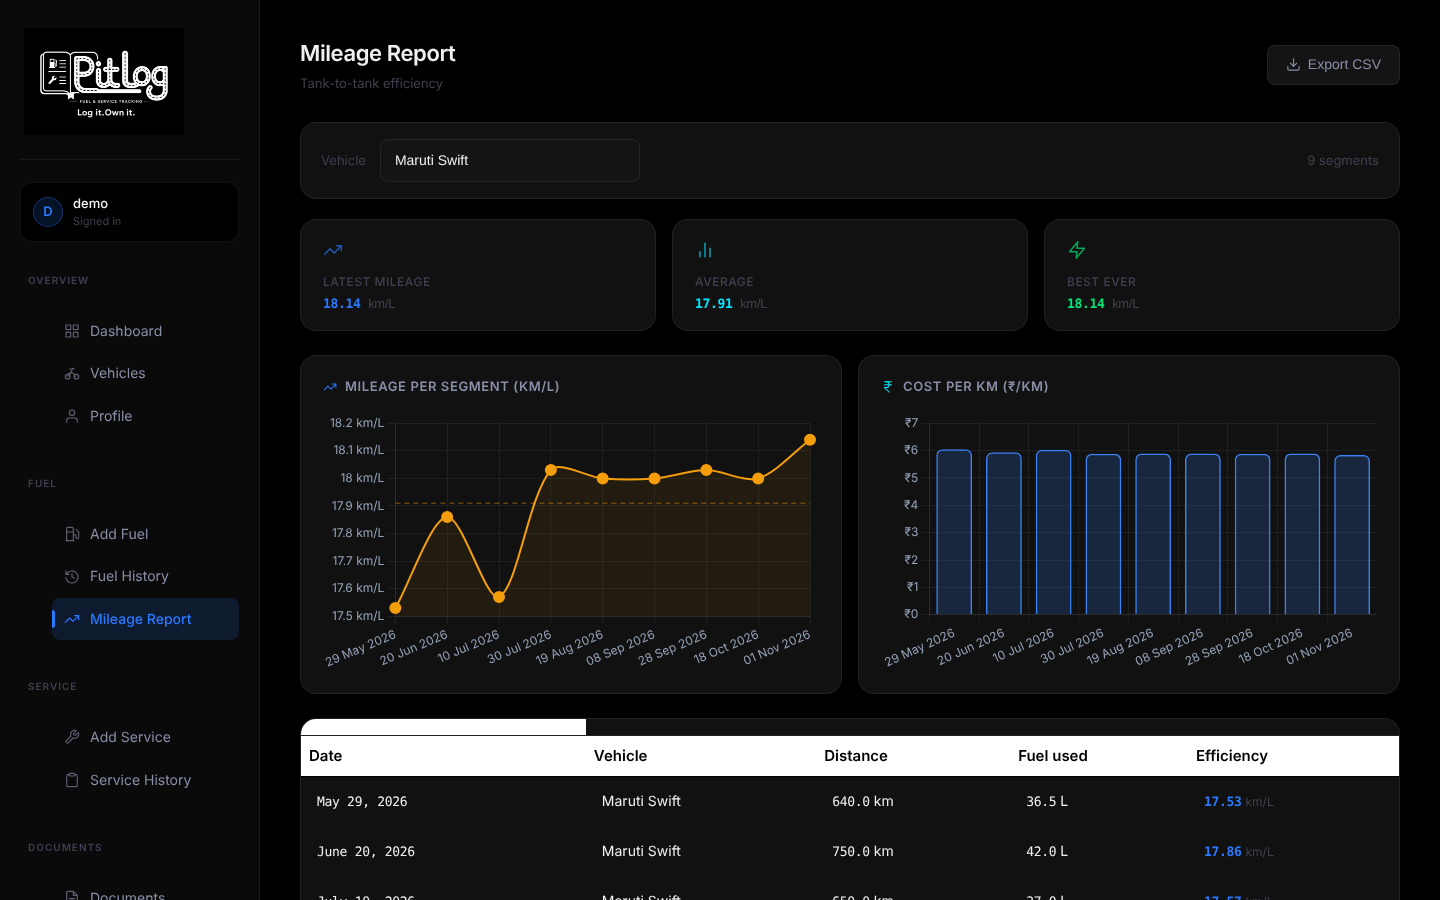
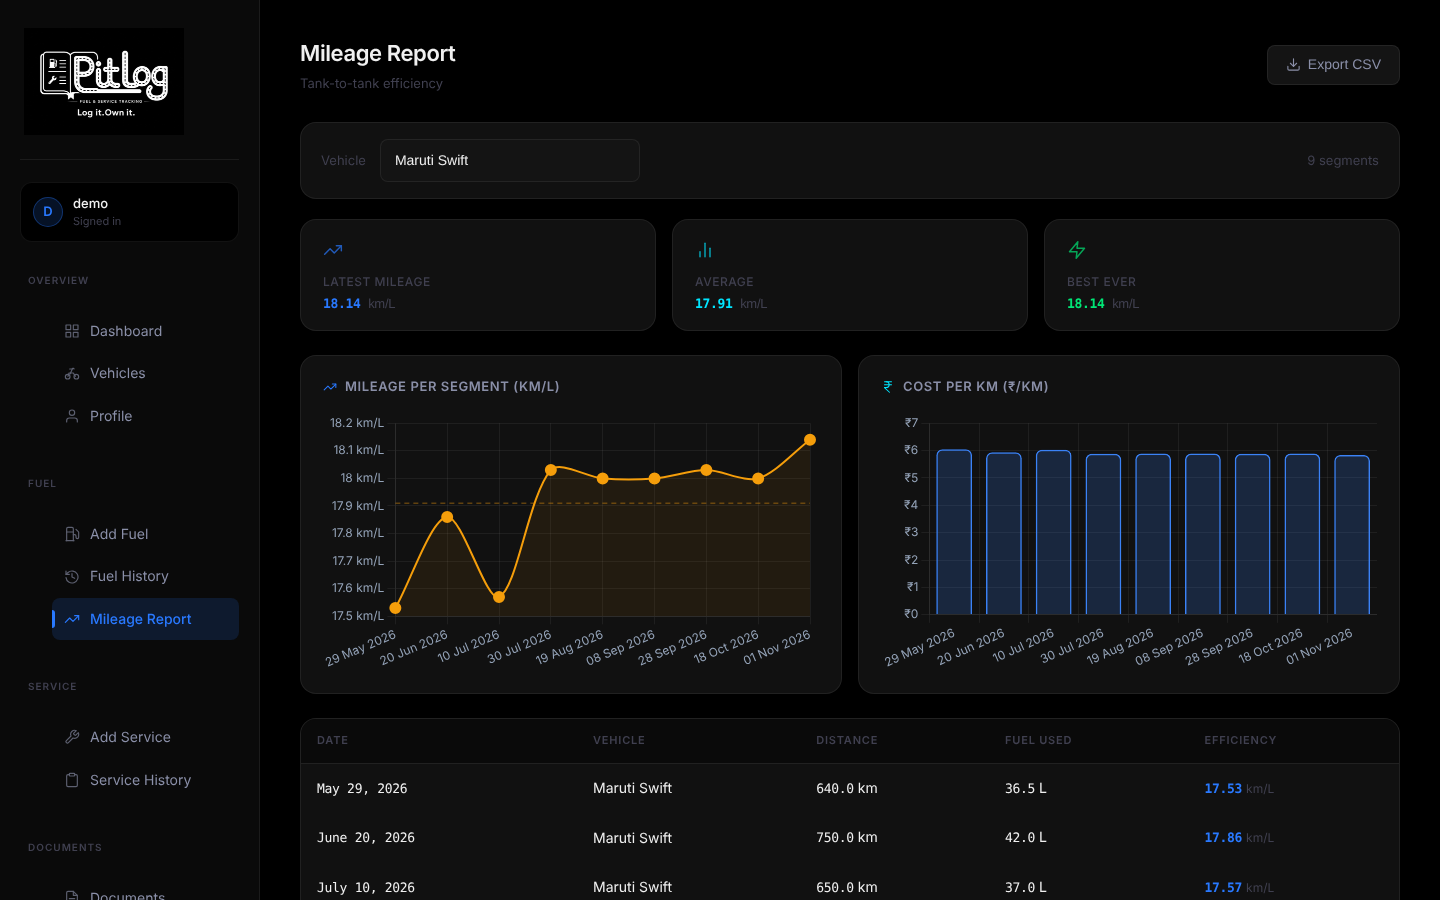
Add README screenshots, fix broken thead tags and demo odometer typo

Changed region(s): [[0.1875, 0.7778, 0.9688, 1.0], [0.7188, 0.9956, 0.75, 1.0], [0.7188, 0.9333, 0.75, 0.9644]]

diff --git a/trk/templates/trk/mileage.html b/trk/templates/trk/mileage.html
@@ -45,7 +45,7 @@
 <div class="table-wrap"><div class="table-responsive">
   <table class="table table-hover" aria-label="Mileage report">
       <caption class="visually-hidden">Tank-to-tank mileage efficiency records</caption>
-    <th scope="col"ead><tr><th scope="col">Date</th><th scope="col">Vehicle</th><th scope="col">Distance</th><th scope="col">Fuel used</th><th scope="col">Efficiency</th></tr></thead>
+    <thead><tr><th scope="col">Date</th><th scope="col">Vehicle</th><th scope="col">Distance</th><th scope="col">Fuel used</th><th scope="col">Efficiency</th></tr></thead>
     <tbody>
       {% for m in data %}
       <tr><td><span class="mono">{{ m.date }}</span></td><td>{{ m.vehicle.brand }} {{ m.vehicle.name }}</td><td><span class="mono">{{ m.distance }}</span> km</td><td><span class="mono">{{ m.fuel }}</span> L</td><td><span class="mono" style="font-weight:700;color:var(--accent)">{{ m.mileage }}</span> <span style="color:var(--text-muted);font-size:12px;"> km/L</span></td></tr>

diff --git a/trk/templates/trk/service_history.html b/trk/templates/trk/service_history.html
@@ -30,7 +30,7 @@
   <div class="table-responsive">
     <table class="table table-hover" aria-label="Service history">
       <caption class="visually-hidden">Vehicle service and maintenance records</caption>
-      <th scope="col"ead><tr><th scope="col">Date</th><th scope="col">Vehicle</th><th scope="col">Service Type</th><th scope="col">Cost</th><th scope="col">Odometer</th><th scope="col">Notes</th><th scope="col">Actions</th></tr></thead>
+      <thead><tr><th scope="col">Date</th><th scope="col">Vehicle</th><th scope="col">Service Type</th><th scope="col">Cost</th><th scope="col">Odometer</th><th scope="col">Notes</th><th scope="col">Actions</th></tr></thead>
       <tbody>
         {% for s in services %}
         <tr>

diff --git a/trk/templates/trk/fuel_history.html b/trk/templates/trk/fuel_history.html
@@ -36,7 +36,7 @@
   <div class="table-responsive">
     <table class="table table-hover" aria-label="Fuel history">
       <caption class="visually-hidden">Fuel fill-up records</caption>
-      <th scope="col"ead><tr><th scope="col">Date</th><th scope="col">Vehicle</th><th scope="col">Litres</th><th scope="col">Cost</th><th scope="col">Odometer</th><th scope="col">Fill type</th><th scope="col">Actions</th></tr></thead>
+      <thead><tr><th scope="col">Date</th><th scope="col">Vehicle</th><th scope="col">Litres</th><th scope="col">Cost</th><th scope="col">Odometer</th><th scope="col">Fill type</th><th scope="col">Actions</th></tr></thead>
       <tbody>
         {% for f in fuel %}
         <tr>
